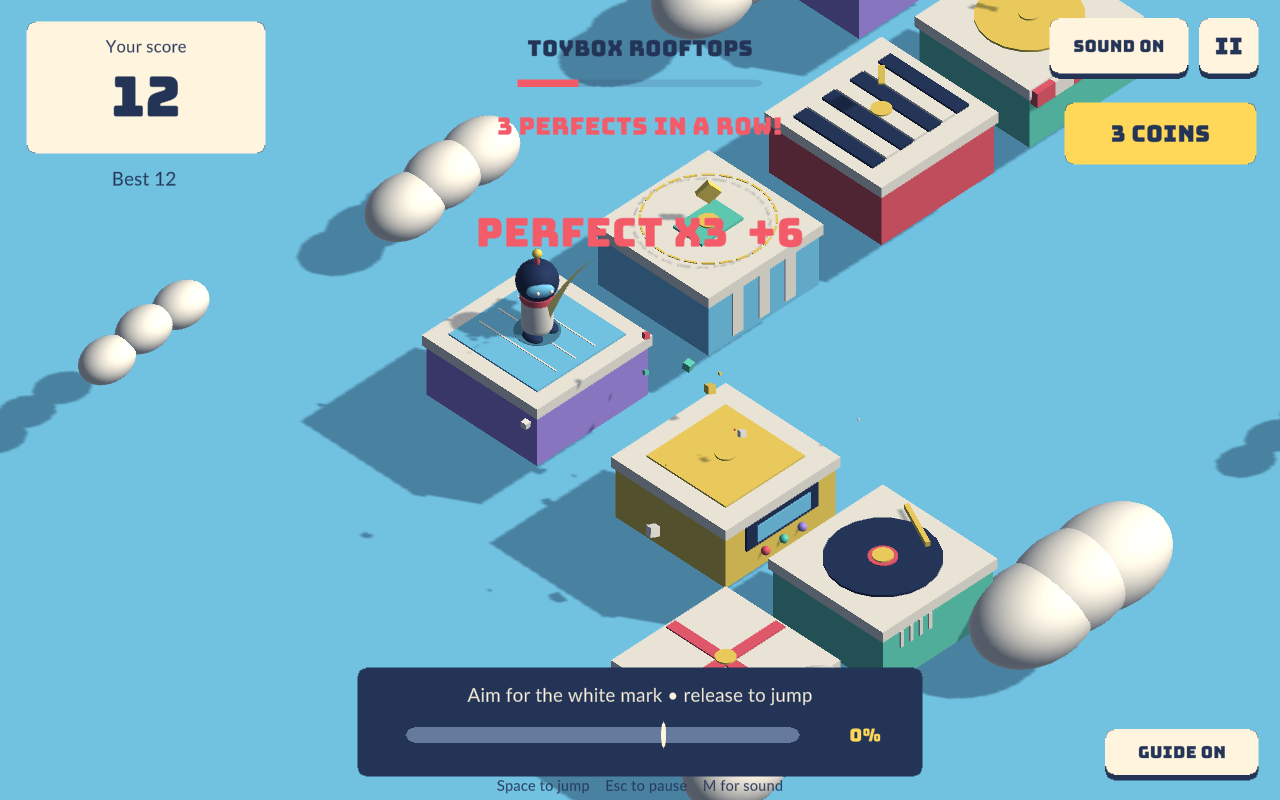
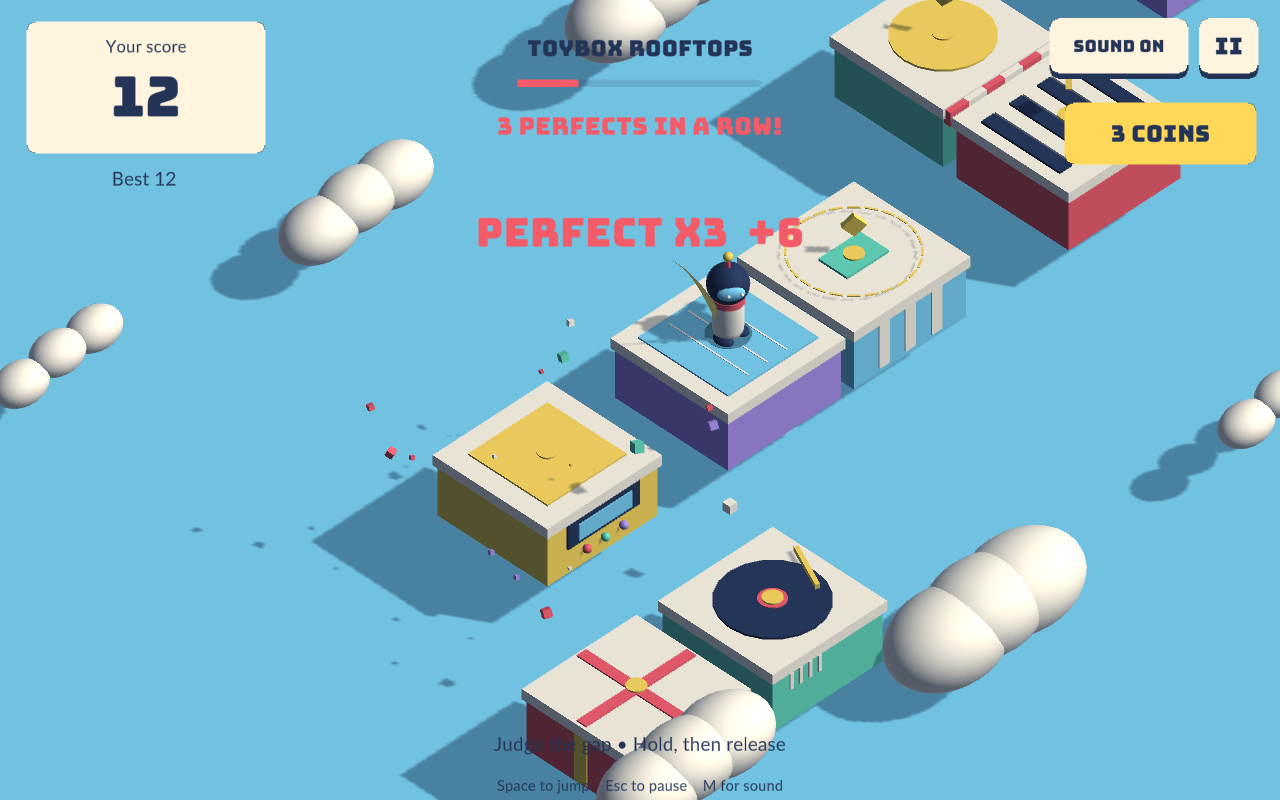
Restore distance-based jump timing without charge hints

diff --git a/Jumper/Assets/Scripts/JumpHud.cs b/Jumper/Assets/Scripts/JumpHud.cs
@@ -9,9 +9,9 @@ public sealed class JumpHud : MonoBehaviour {
     readonly List<Hit> hits=new List<Hit>();
     TMP_FontAsset display,body;Sprite rounded,solid;
     Canvas canvas;CanvasScaler scaler;JumpPhase visiblePhase;Transform title,result,pause,playHud;
-    TMP_Text score,best,coins,combo,district,toast,instructions,chargeLabel,resultScore,resultStats,resultTitle,resultMedal,muteLabel,assistLabel;
-    Image charge,aim,progress;float toastTime,scorePulse;
-    public Action StartClicked,PauseClicked,ResumeClicked,MuteClicked,AssistClicked;
+    TMP_Text score,best,coins,combo,district,toast,instructions,resultScore,resultStats,resultTitle,resultMedal,muteLabel;
+    Image progress;float toastTime,scorePulse;
+    public Action StartClicked,PauseClicked,ResumeClicked,MuteClicked;
     public void Initialize(){
         display=Resources.Load<TMP_FontAsset>("Fonts/DisplaySDF");body=Resources.Load<TMP_FontAsset>("Fonts/BodySDF");
         var tex=new Texture2D(32,32);tex.filterMode=FilterMode.Bilinear;
@@ -41,16 +41,10 @@ public sealed class JumpHud : MonoBehaviour {
         var prog=Panel(playHud,"District track",new Vector2(.5f,1),new Vector2(0,-78),new Vector2(230,7),new Color(.15f,.2f,.35f,.15f));
         progress=Panel(prog.transform,"Progress",new Vector2(.5f,.5f),Vector2.zero,new Vector2(230,7),JumpWorld.Red);progress.sprite=solid;progress.type=Image.Type.Filled;progress.fillMethod=Image.FillMethod.Horizontal;
         combo=Text(playHud,"",23,new Vector2(.5f,1),new Vector2(0,-118),new Vector2(350,40),JumpWorld.Red,true);
-        var footer=Panel(playHud,"Charge console",new Vector2(.5f,0),new Vector2(0,73),new Vector2(530,102),JumpWorld.Ink).transform;
-        instructions=Text(footer,"Hold to charge  •  Release to jump",18,new Vector2(0,26),new Vector2(500,30),JumpWorld.Cream);
-        var rail=Panel(footer,"Power rail",new Vector2(.5f,.5f),new Vector2(-35,-12),new Vector2(370,15),new Color(.4f,.48f,.62f));
-        charge=Panel(rail.transform,"Charge fill",new Vector2(.5f,.5f),Vector2.zero,new Vector2(370,15),JumpWorld.Yellow);charge.sprite=solid;charge.type=Image.Type.Filled;charge.fillMethod=Image.FillMethod.Horizontal;charge.fillAmount=0;
-        aim=Panel(rail.transform,"Sweet spot",new Vector2(0,.5f),Vector2.zero,new Vector2(5,25),JumpWorld.Cream);
-        chargeLabel=Text(footer,"0%",17,new Vector2(211,-12),new Vector2(70,30),JumpWorld.Yellow,true);
+        instructions=Text(playHud,"Judge the gap • Hold, then release",18,new Vector2(.5f,0),new Vector2(0,53),new Vector2(530,35),JumpWorld.Ink);
         Text(playHud,"Space to jump    Esc to pause    M for sound",14,new Vector2(.5f,0),new Vector2(0,14),new Vector2(650,22),JumpWorld.Ink);
         Button(playHud,"II",new Vector2(1,1),new Vector2(-48,-43),new Vector2(56,52),JumpWorld.Cream,()=>PauseClicked?.Invoke(),22);
         muteLabel=Button(transform,"Sound on",new Vector2(1,1),new Vector2(-151,-43),new Vector2(130,52),JumpWorld.Cream,()=>MuteClicked?.Invoke(),16);
-        assistLabel=Button(transform,"Guide on",new Vector2(1,0),new Vector2(-92,45),new Vector2(144,43),JumpWorld.Cream,()=>AssistClicked?.Invoke(),16);
         toast=Text(transform,"",38,new Vector2(.5f,.71f),Vector2.zero,new Vector2(740,80),JumpWorld.Red,true);
         toast.outlineWidth=.16f;toast.outlineColor=JumpWorld.Cream;
         pause=Panel(transform,"Pause card",new Vector2(.5f,.5f),Vector2.zero,new Vector2(440,300),JumpWorld.Cream).transform;
@@ -75,10 +69,7 @@ public sealed class JumpHud : MonoBehaviour {
         ((RectTransform)progress.transform.parent).anchoredPosition=new Vector2(0,narrow?-247:-78);
         combo.rectTransform.anchoredPosition=new Vector2(0,narrow?-281:-118);
         toast.rectTransform.anchoredPosition=new Vector2(0,narrow?-65:0);
-        bool top=narrow&&visiblePhase!=JumpPhase.Title&&visiblePhase!=JumpPhase.Result;
-        var anchor=new Vector2(1,top?1:0);var pos=new Vector2(-92,top?-182:45);
-        var guideRect=(RectTransform)assistLabel.transform.parent;guideRect.anchorMin=guideRect.anchorMax=anchor;guideRect.anchoredPosition=pos;
-        var shade=(RectTransform)transform.Find("Guide on shadow");shade.anchorMin=shade.anchorMax=anchor;shade.anchoredPosition=pos+Vector2.down*5;
+
     }
     void Stretch(Transform t){var r=(RectTransform)t;r.anchorMin=Vector2.zero;r.anchorMax=Vector2.one;r.offsetMin=r.offsetMax=Vector2.zero;}
     RectTransform Rect(Transform parent,string name,Vector2 anchor,Vector2 pos,Vector2 size){
@@ -109,15 +100,13 @@ public sealed class JumpHud : MonoBehaviour {
         if(phase==JumpPhase.Title||phase==JumpPhase.Result)toast.text="";
         foreach(var label in GetComponentsInChildren<TMP_Text>(true))label.ForceMeshUpdate(true);
     }
-    public void Settings(bool muted,bool guide){muteLabel.text=muted?"Sound off":"Sound on";assistLabel.text=guide?"Guide on":"Guide off";}
-    public void Refresh(JumpSession s,int record,float targetCharge,bool guide,float dt){
+    public void Settings(bool muted){muteLabel.text=muted?"Sound off":"Sound on";}
+    public void Refresh(JumpSession s,int record,float dt){
         score.text=s.Score.ToString("00");best.text="Best "+record.ToString("00");coins.text=s.Coins+" coins";
         combo.text=s.Combo>=2?s.Combo+" perfects in a row!":"";
         district.text=new[]{"Toybox rooftops","Candy coast","Vinyl avenue","Sunset parade"}[s.District%4];
-        progress.fillAmount=(s.Hops%12)/12f;charge.fillAmount=s.Phase==JumpPhase.Charging?s.Charge:0;
-        charge.color=s.Charge>.9f?JumpWorld.Red:JumpWorld.Yellow;chargeLabel.text=Mathf.RoundToInt(charge.fillAmount*100)+"%";
-        aim.gameObject.SetActive(guide);aim.rectTransform.anchoredPosition=new Vector2(Mathf.Clamp01(targetCharge)*370,0);
-        instructions.text=s.Phase==JumpPhase.Flight?"Stick the landing!":guide?"Aim for the white mark • release to jump":"Hold to charge • release to jump";
+        progress.fillAmount=(s.Hops%12)/12f;
+        instructions.text=s.Phase==JumpPhase.Flight?"Stick the landing!":"Judge the gap • Hold, then release";
         toastTime=Mathf.Max(0,toastTime-dt);if(toastTime==0)toast.text="";
         if(scorePulse>0)scorePulse=Mathf.Max(0,scorePulse-dt*4);
         score.transform.localScale=Vector3.one*(1+Mathf.Sin(scorePulse*Mathf.PI)*.18f);

diff --git a/Jumper/Assets/Scripts/JumpGame.cs b/Jumper/Assets/Scripts/JumpGame.cs
@@ -5,7 +5,7 @@ using UnityEngine.InputSystem;
 public sealed class JumpGame : MonoBehaviour {
     readonly JumpSession session=new JumpSession();
     JumpWorld world;JumpHud hud;JumpAudio sound;Camera cam;
-    Vector3 focus,start,end;float flight,fall,shake,elapsed;int best,initialBest;bool guide=true,qa;
+    Vector3 focus,start,end;float flight,fall,shake,elapsed;int best,initialBest;bool qa;
     void Start(){
         Application.targetFrameRate=60;
 #if !UNITY_WEBGL
@@ -20,10 +20,10 @@ public sealed class JumpGame : MonoBehaviour {
         world=new GameObject("Toybox rooftops").AddComponent<JumpWorld>();world.Initialize();
         hud=new GameObject("Postcard HUD").AddComponent<JumpHud>();hud.Initialize();
         sound=gameObject.AddComponent<JumpAudio>();sound.Initialize();
-        best=qa?0:PlayerPrefs.GetInt("JumperBest",0);guide=PlayerPrefs.GetInt("JumperGuide",1)==1;
+        best=qa?0:PlayerPrefs.GetInt("JumperBest",0);
         hud.StartClicked=StartRun;hud.PauseClicked=TogglePause;hud.ResumeClicked=TogglePause;
-        hud.MuteClicked=ToggleMute;hud.AssistClicked=()=>{guide=!guide;if(!qa){PlayerPrefs.SetInt("JumperGuide",guide?1:0);PlayerPrefs.Save();}hud.Settings(sound.Muted,guide);};
-        hud.Settings(sound.Muted,guide);
+        hud.MuteClicked=ToggleMute;
+        hud.Settings(sound.Muted);
         focus=(world.CurrentPad.Position+world.Next.Position)*.5f;
         UpdateCamera(1);Debug.Log("JUMPER_READY v1.1");
 #if !UNITY_WEBGL
@@ -32,9 +32,9 @@ public sealed class JumpGame : MonoBehaviour {
     }
     void StartRun(){
         world.Reset();session.StartRun();flight=fall=0;initialBest=best;focus=(world.CurrentPad.Position+world.Next.Position)*.5f;
-        sound.Begin();hud.Show(session.Phase);hud.Toast("Let's go!");Debug.Log("JUMPER_RUN_START");
+        sound.Begin();hud.Show(session.Phase);hud.Toast("Let's go!");Debug.Log("JUMPER_RUN_START: distance timing, no charge guide");
     }
-    void ToggleMute(){sound.Toggle();hud.Settings(sound.Muted,guide);}
+    void ToggleMute(){sound.Toggle();hud.Settings(sound.Muted);}
     void TogglePause(){
         if(session.Phase==JumpPhase.Paused){session.Resume();sound.Pause(false);}
         else {session.Pause();sound.Pause(session.Phase==JumpPhase.Paused);}
@@ -79,8 +79,7 @@ public sealed class JumpGame : MonoBehaviour {
         sound.Charge(session.Charge,session.Phase==JumpPhase.Charging);
         world.Animate(dt,focus,paused);
         if(!paused)UpdateCamera(dt);
-        float target=(Vector3.Distance(world.Pawn.position,world.Next.Position)-.65f)/4;
-        hud.Refresh(session,best,target,guide,paused?0:dt);
+        hud.Refresh(session,best,paused?0:dt);
     }
     void Launch(){
         if(session.Phase!=JumpPhase.Charging)return;
@@ -119,6 +118,9 @@ public sealed class JumpGame : MonoBehaviour {
     void Capture(string stage){ScreenCapture.CaptureScreenshot("/tmp/jumper-"+stage+(Screen.width<Screen.height?"-portrait":"")+".png");}
     IEnumerator QA(){
         yield return new WaitForSeconds(1);
+        foreach(var text in hud.GetComponentsInChildren<TMPro.TMP_Text>(true)){
+            if(text.text.Contains("%")||text.text.Contains("Guide")||text.text.Contains("white mark")){Debug.LogError("QA_FAILED timing hint exposed");Application.Quit(2);yield break;}
+        }
         Capture("title");yield return new WaitForSeconds(.3f);
         StartRun();yield return new WaitForSeconds(.3f);
         for(int i=0;i<15;i++){

diff --git a/Jumper/Assets/Editor/JumpTests.cs b/Jumper/Assets/Editor/JumpTests.cs
@@ -5,6 +5,16 @@ public static class JumpTests {
     static void Check(bool v,string n){if(!v)throw new Exception("FAIL "+n);checks++;Debug.Log("PASS "+n);}
     public static void Run(){
         checks=0;
+        float lastGap=2.6f;
+        for(int i=0;i<100;i++){
+            float gap=JumpRules.PlatformGap(lastGap,(i*37%101)/100f);
+            Check(gap>=2.4f&&gap<=4.3f,"route gap within reachable range");
+            Check(Mathf.Abs(gap-lastGap)>=.65f,"successive gaps need different timing");
+            lastGap=gap;
+        }
+        float near=2.4f,far=4.3f;
+        Check(!JumpRules.Lands(Vector3.right*near,Vector3.right*far,2.2f),"near timing undershoots far platform");
+        Check(!JumpRules.Lands(Vector3.right*far,Vector3.right*near,2.2f),"far timing overshoots near platform");
         Check(Mathf.Approximately(JumpRules.Distance(0),.65f),"minimum jump");
         Check(Mathf.Approximately(JumpRules.Distance(1),4.65f),"full jump");
         Check(JumpRules.Distance(10)==JumpRules.Distance(1),"charge capped");

diff --git a/Jumper/Assets/Editor/BuildGame.cs b/Jumper/Assets/Editor/BuildGame.cs
@@ -8,7 +8,11 @@ using TMPro;
 using UnityEngine.TextCore.LowLevel;
 public static class BuildGame {
     public static void BuildWebGL(){Build(BuildTarget.WebGL,"Build/WebGL");}
-    public static void BuildDesktop(){Build(BuildTarget.StandaloneOSX,"Build/Jump Jump.app");}
+    public static void BuildDesktop(){
+        string architecture=System.Runtime.InteropServices.RuntimeInformation.ProcessArchitecture.ToString()=="Arm64"?"ARM64":"x64";
+        EditorUserBuildSettings.SetPlatformSettings("OSXUniversal","Architecture",architecture);
+        Build(BuildTarget.StandaloneOSX,"Build/Jump Jump.app");
+    }
     public static void BuildMacOS(){
         string previous=EditorUserBuildSettings.GetPlatformSettings("OSXUniversal","Architecture");
         try {EditorUserBuildSettings.SetPlatformSettings("OSXUniversal","Architecture","x64ARM64");Build(BuildTarget.StandaloneOSX,"Build/macOS/Jump Jump.app");}

diff --git a/Jumper/Assets/Scripts/JumpRules.cs b/Jumper/Assets/Scripts/JumpRules.cs
@@ -1,5 +1,11 @@
 using UnityEngine;
 public static class JumpRules {
+    public static float PlatformGap(float previous,float sample){
+        float gap=Mathf.Lerp(2.4f,4.3f,Mathf.Clamp01(sample));
+        // Avoid a repeated rhythm while keeping every next platform within jumping range.
+        if(Mathf.Abs(gap-previous)<.65f)gap=previous<3.35f?4.3f:2.4f;
+        return gap;
+    }
     public static float Distance(float charge)=>.65f+4*Mathf.Clamp01(charge);
     public static bool Lands(Vector3 p,Vector3 c,float size)=>Mathf.Abs(p.x-c.x)<=size*.5f && Mathf.Abs(p.z-c.z)<=size*.5f;
     public static bool Perfect(Vector3 p,Vector3 c)=>new Vector2(p.x-c.x,p.z-c.z).magnitude<.25f;

diff --git a/Jumper/Assets/Scripts/JumpWorld.cs b/Jumper/Assets/Scripts/JumpWorld.cs
@@ -84,7 +84,8 @@ public sealed class JumpWorld : MonoBehaviour {
     void AddNext(){
         var prev=pads[pads.Count-1].Position;int n=generated;
         var direction=n==1?Vector3.right:(rng.NextDouble()>.48?Vector3.right:Vector3.forward);
-        float gap=n<3?3f:2.7f+(float)rng.NextDouble()*.95f;
+        float previousGap=pads.Count>1?Vector3.Distance(prev,pads[pads.Count-2].Position):2.6f;
+        float gap=n==1?2.6f:JumpRules.PlatformGap(previousGap,(float)rng.NextDouble());
         Add(prev+direction*gap);
     }
     void Add(Vector3 pos){

diff --git a/AGENTS.md b/AGENTS.md
@@ -15,7 +15,7 @@ Do not modify the Flappy Bird repository to run this project.
 Verify cloud completion and actual live rendering separately.
 
 Version 1.1 presentation:
-- JumpSession is the pure run-state model; JumpTests has 38 rules/audio checks.
+- JumpSession is the pure run-state model; JumpTests has 240 rules/audio checks.
 - JumpWorld owns all geometry, cached materials, bounded platform history and effects.
 - JumpHud uses static TextMeshPro SDF atlases generated from the bundled Bungee/Lato fonts.
   Do not revert to dynamic legacy Text: score changes invalidated other glyph meshes.
@@ -32,3 +32,8 @@ Desktop releases:
 - scripts/check-release-version.mjs enforces tag parity; scripts/package-release.sh validates and archives complete players.
 - Release tests are included in node --test scripts/*.test.mjs.
 - Publishing waits for all three builds and attaches checksums. Do not create a version tag unless requested.
+
+Distance-based play: no charge meter, target timing marker, percentage or Guide toggle.
+JumpRules.PlatformGap varies center spacing from 2.4 to 4.3, at least 0.65 apart on successive jumps.
+Keep squash and rising sound as qualitative charge feedback; do not expose target charge in the HUD.
+BuildDesktop explicitly targets the local editor architecture for QA; BuildMacOS remains Universal for releases.

diff --git a/docs/DEVELOPMENT.md b/docs/DEVELOPMENT.md
@@ -12,7 +12,7 @@ Run these commands from the repository root:
 
 The WebGL output is Jumper/Build/WebGL; serve that directory over HTTP. The desktop test script builds a macOS player and checks fifteen landings, bounded platforms, pause, results and retry in landscape and portrait. Screenshot fixtures in /tmp/jumper-*.png do not change saved best scores.
 
-Every Unity build runs 38 gameplay/audio checks. Node tests cover WebGL validation, release version matching, archive contents, executable permissions and incomplete-build rejection.
+Every Unity build runs 240 gameplay/audio checks. Node tests cover WebGL validation, release version matching, archive contents, executable permissions and incomplete-build rejection.
 
 Editor batch entry points:
 
